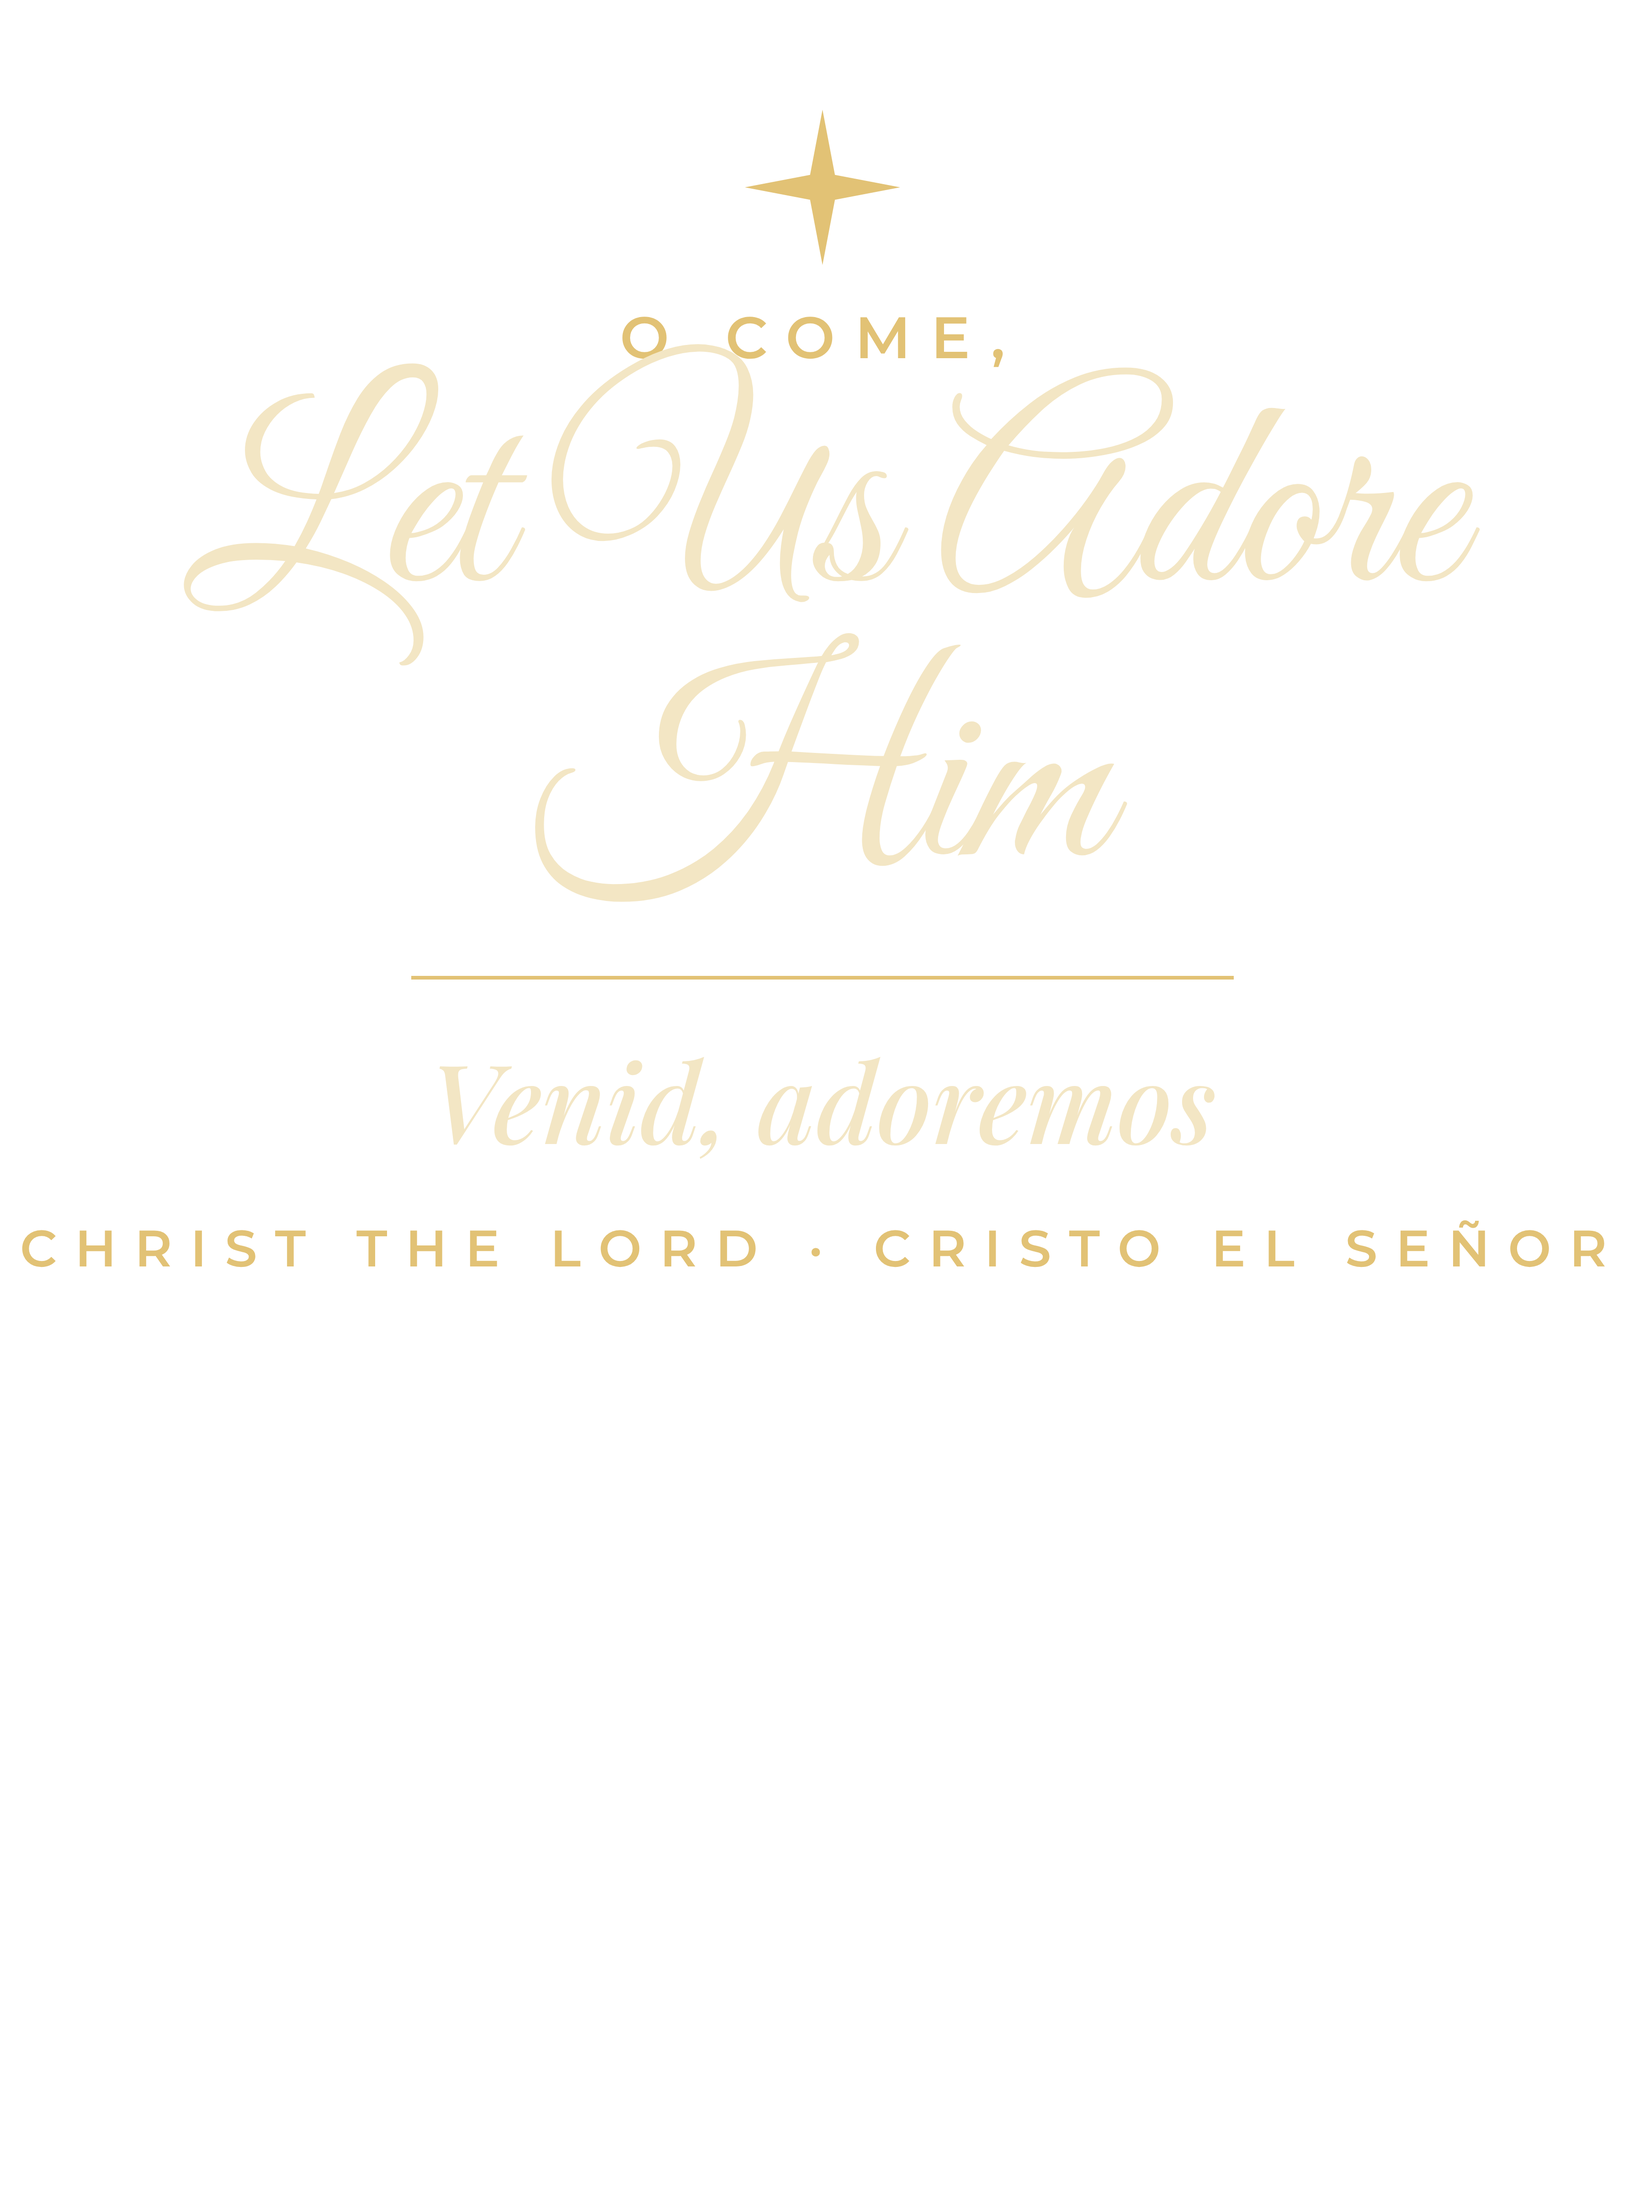
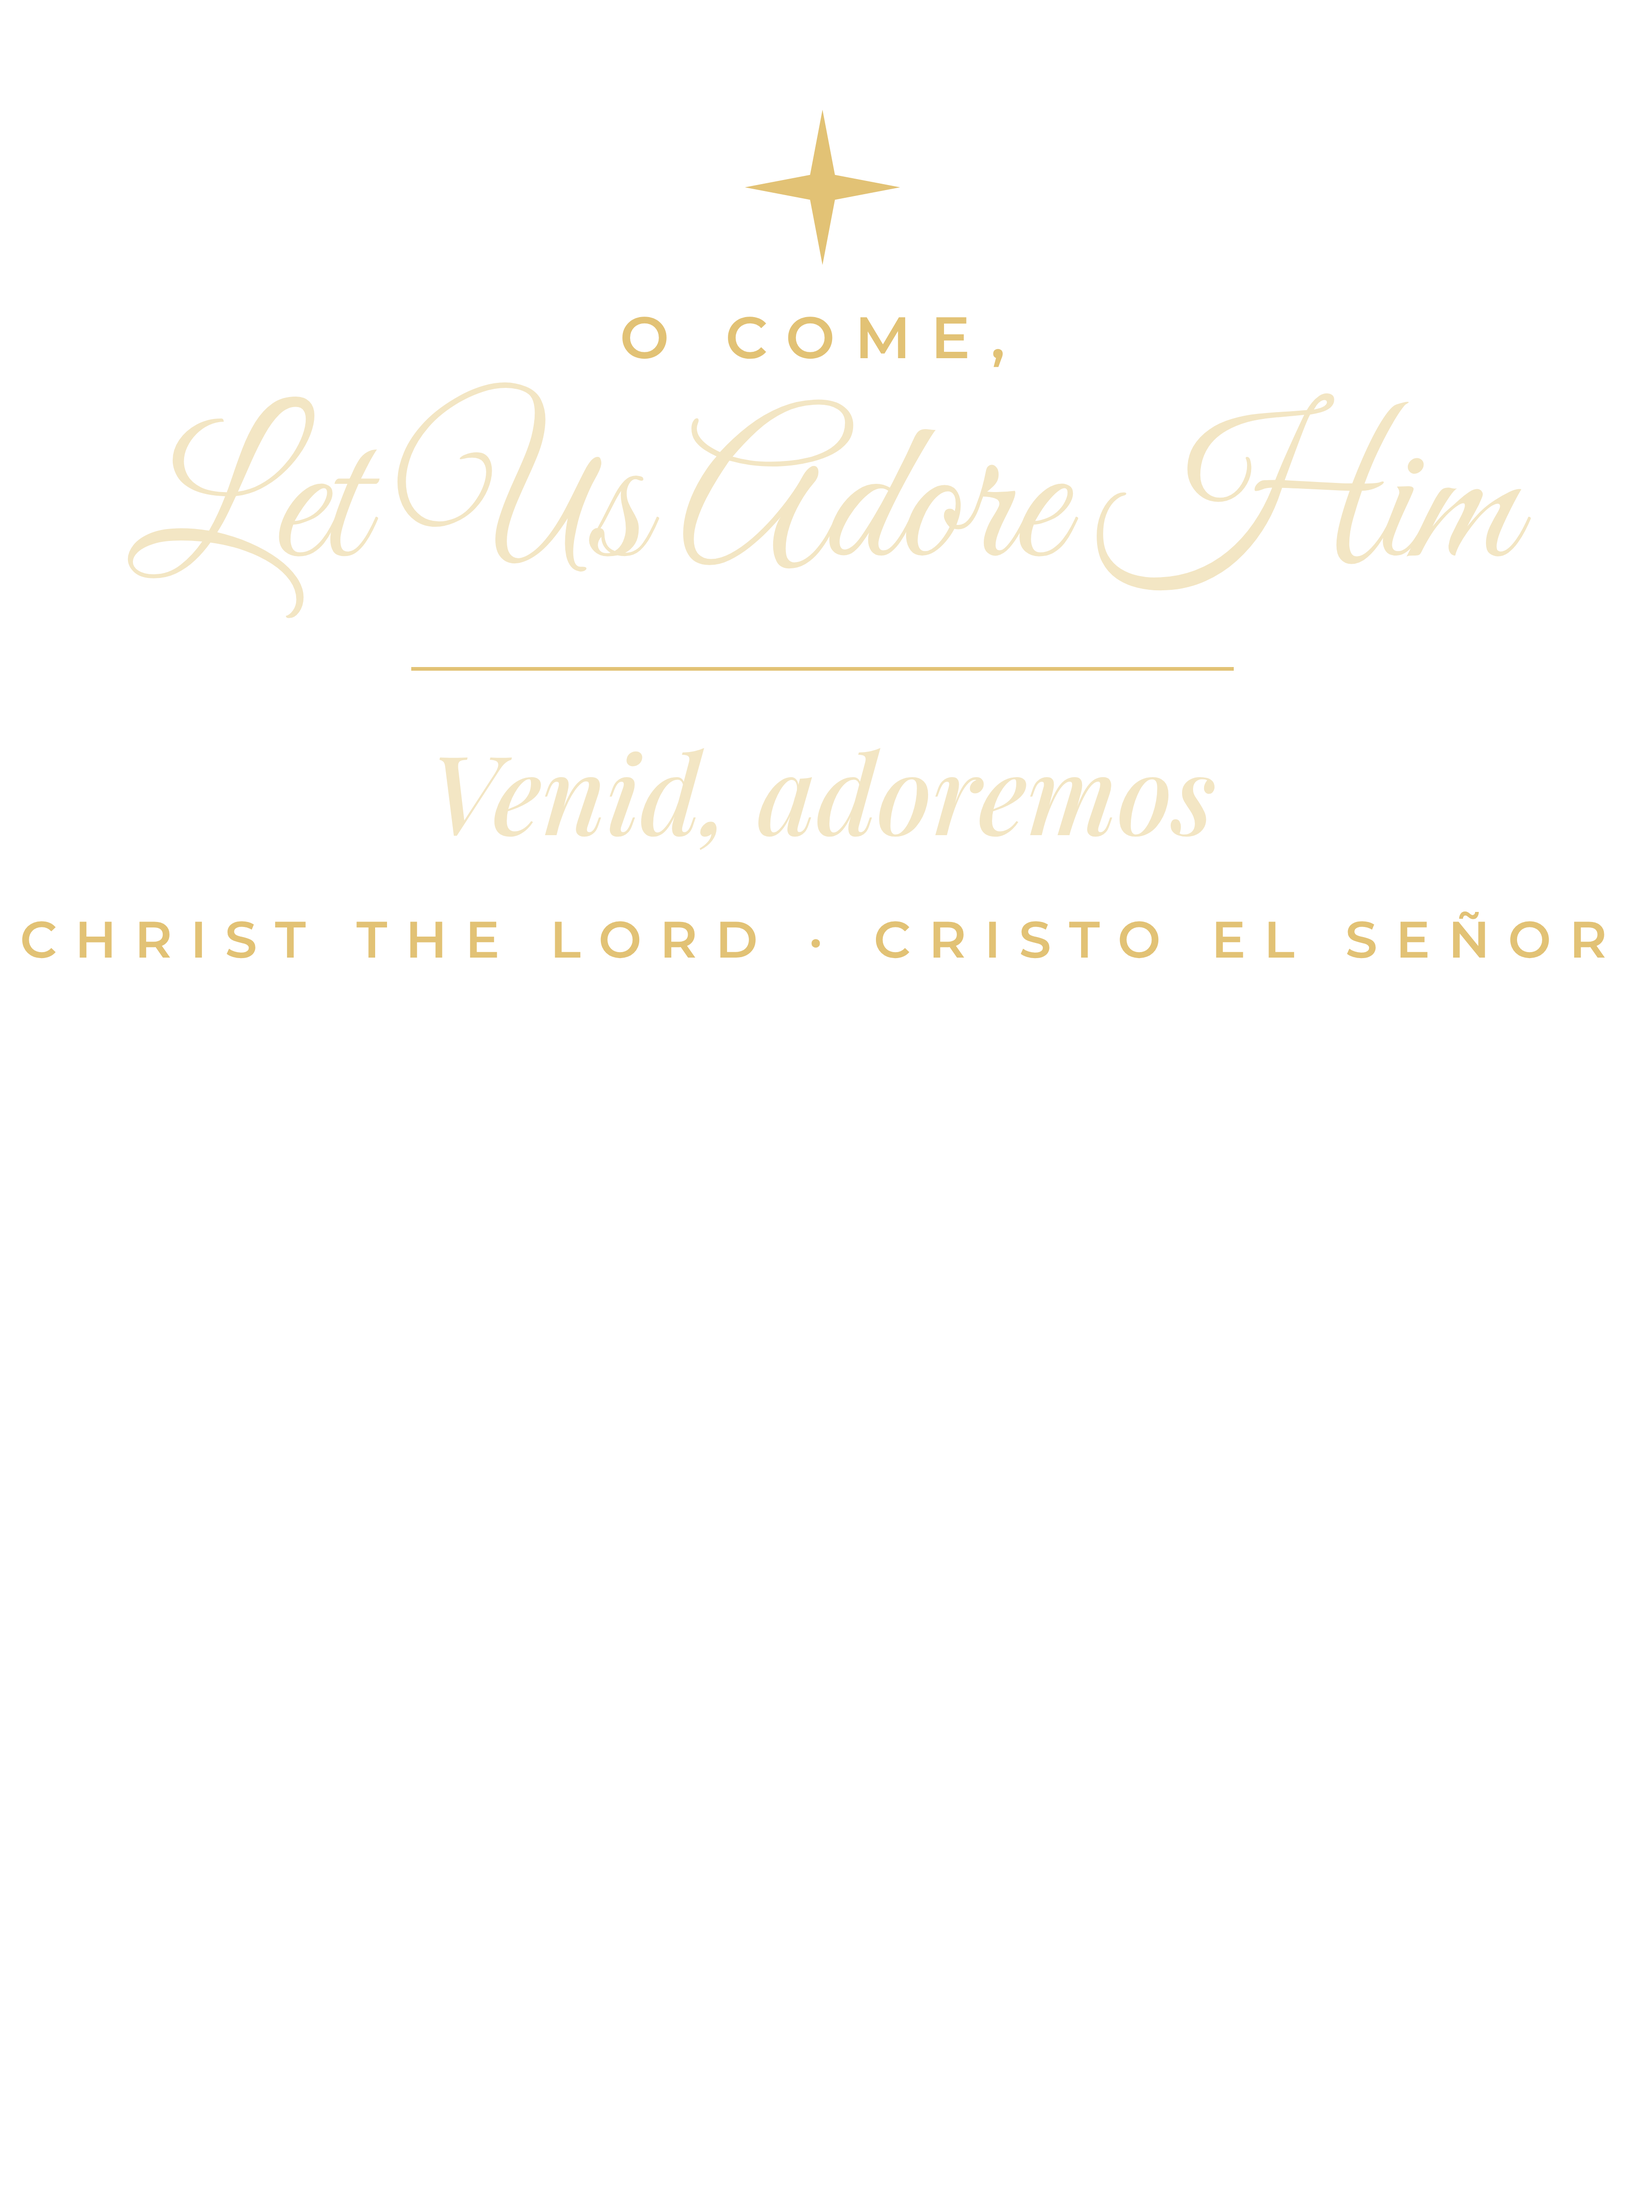
Fix classic sweatshirt layout
Claude-Session: https://claude.ai/code/session_016J2nU7A2YAX41gT6f3cs1D

diff --git a/docs/unity-keepsakes/design-scripts/batch2/sweatshirt_adore-classic.html b/docs/unity-keepsakes/design-scripts/batch2/sweatshirt_adore-classic.html
@@ -1,0 +1,10 @@
+<html><head><link href="https://fonts.googleapis.com/css2?family=Playfair+Display:ital,wght@0,600;1,500&family=Great+Vibes&family=Montserrat:wght@600&display=swap" rel="stylesheet">
+<style>html,body{margin:0;background:transparent}.c{width:1800px;height:2400px;display:flex;flex-direction:column;align-items:center;text-align:center;color:#f3e6c4}</style></head><body><div class="c">
+<div style="height:120px"></div>
+<svg viewBox="0 0 100 100" width="170"><path d="M50 0 L58 42 L100 50 L58 58 L50 100 L42 58 L0 50 L42 42 Z" fill="#e2c275"/></svg>
+<div style="font-family:Montserrat;font-weight:600;font-size:64px;letter-spacing:22px;color:#e2c275;margin-top:40px">O COME,</div>
+<div style="font-family:'Great Vibes';font-size:220px;line-height:1.1;margin-top:30px;white-space:nowrap">Let Us Adore Him</div>
+<div style="width:900px;height:4px;background:#e2c275;margin:50px 0"></div>
+<div style="font-family:'Playfair Display';font-style:italic;font-weight:500;font-size:120px">Venid, adoremos</div>
+<div style="font-family:Montserrat;font-weight:600;font-size:56px;letter-spacing:20px;color:#e2c275;margin-top:50px">CHRIST THE LORD · CRISTO EL SEÑOR</div>
+</div></body></html>
